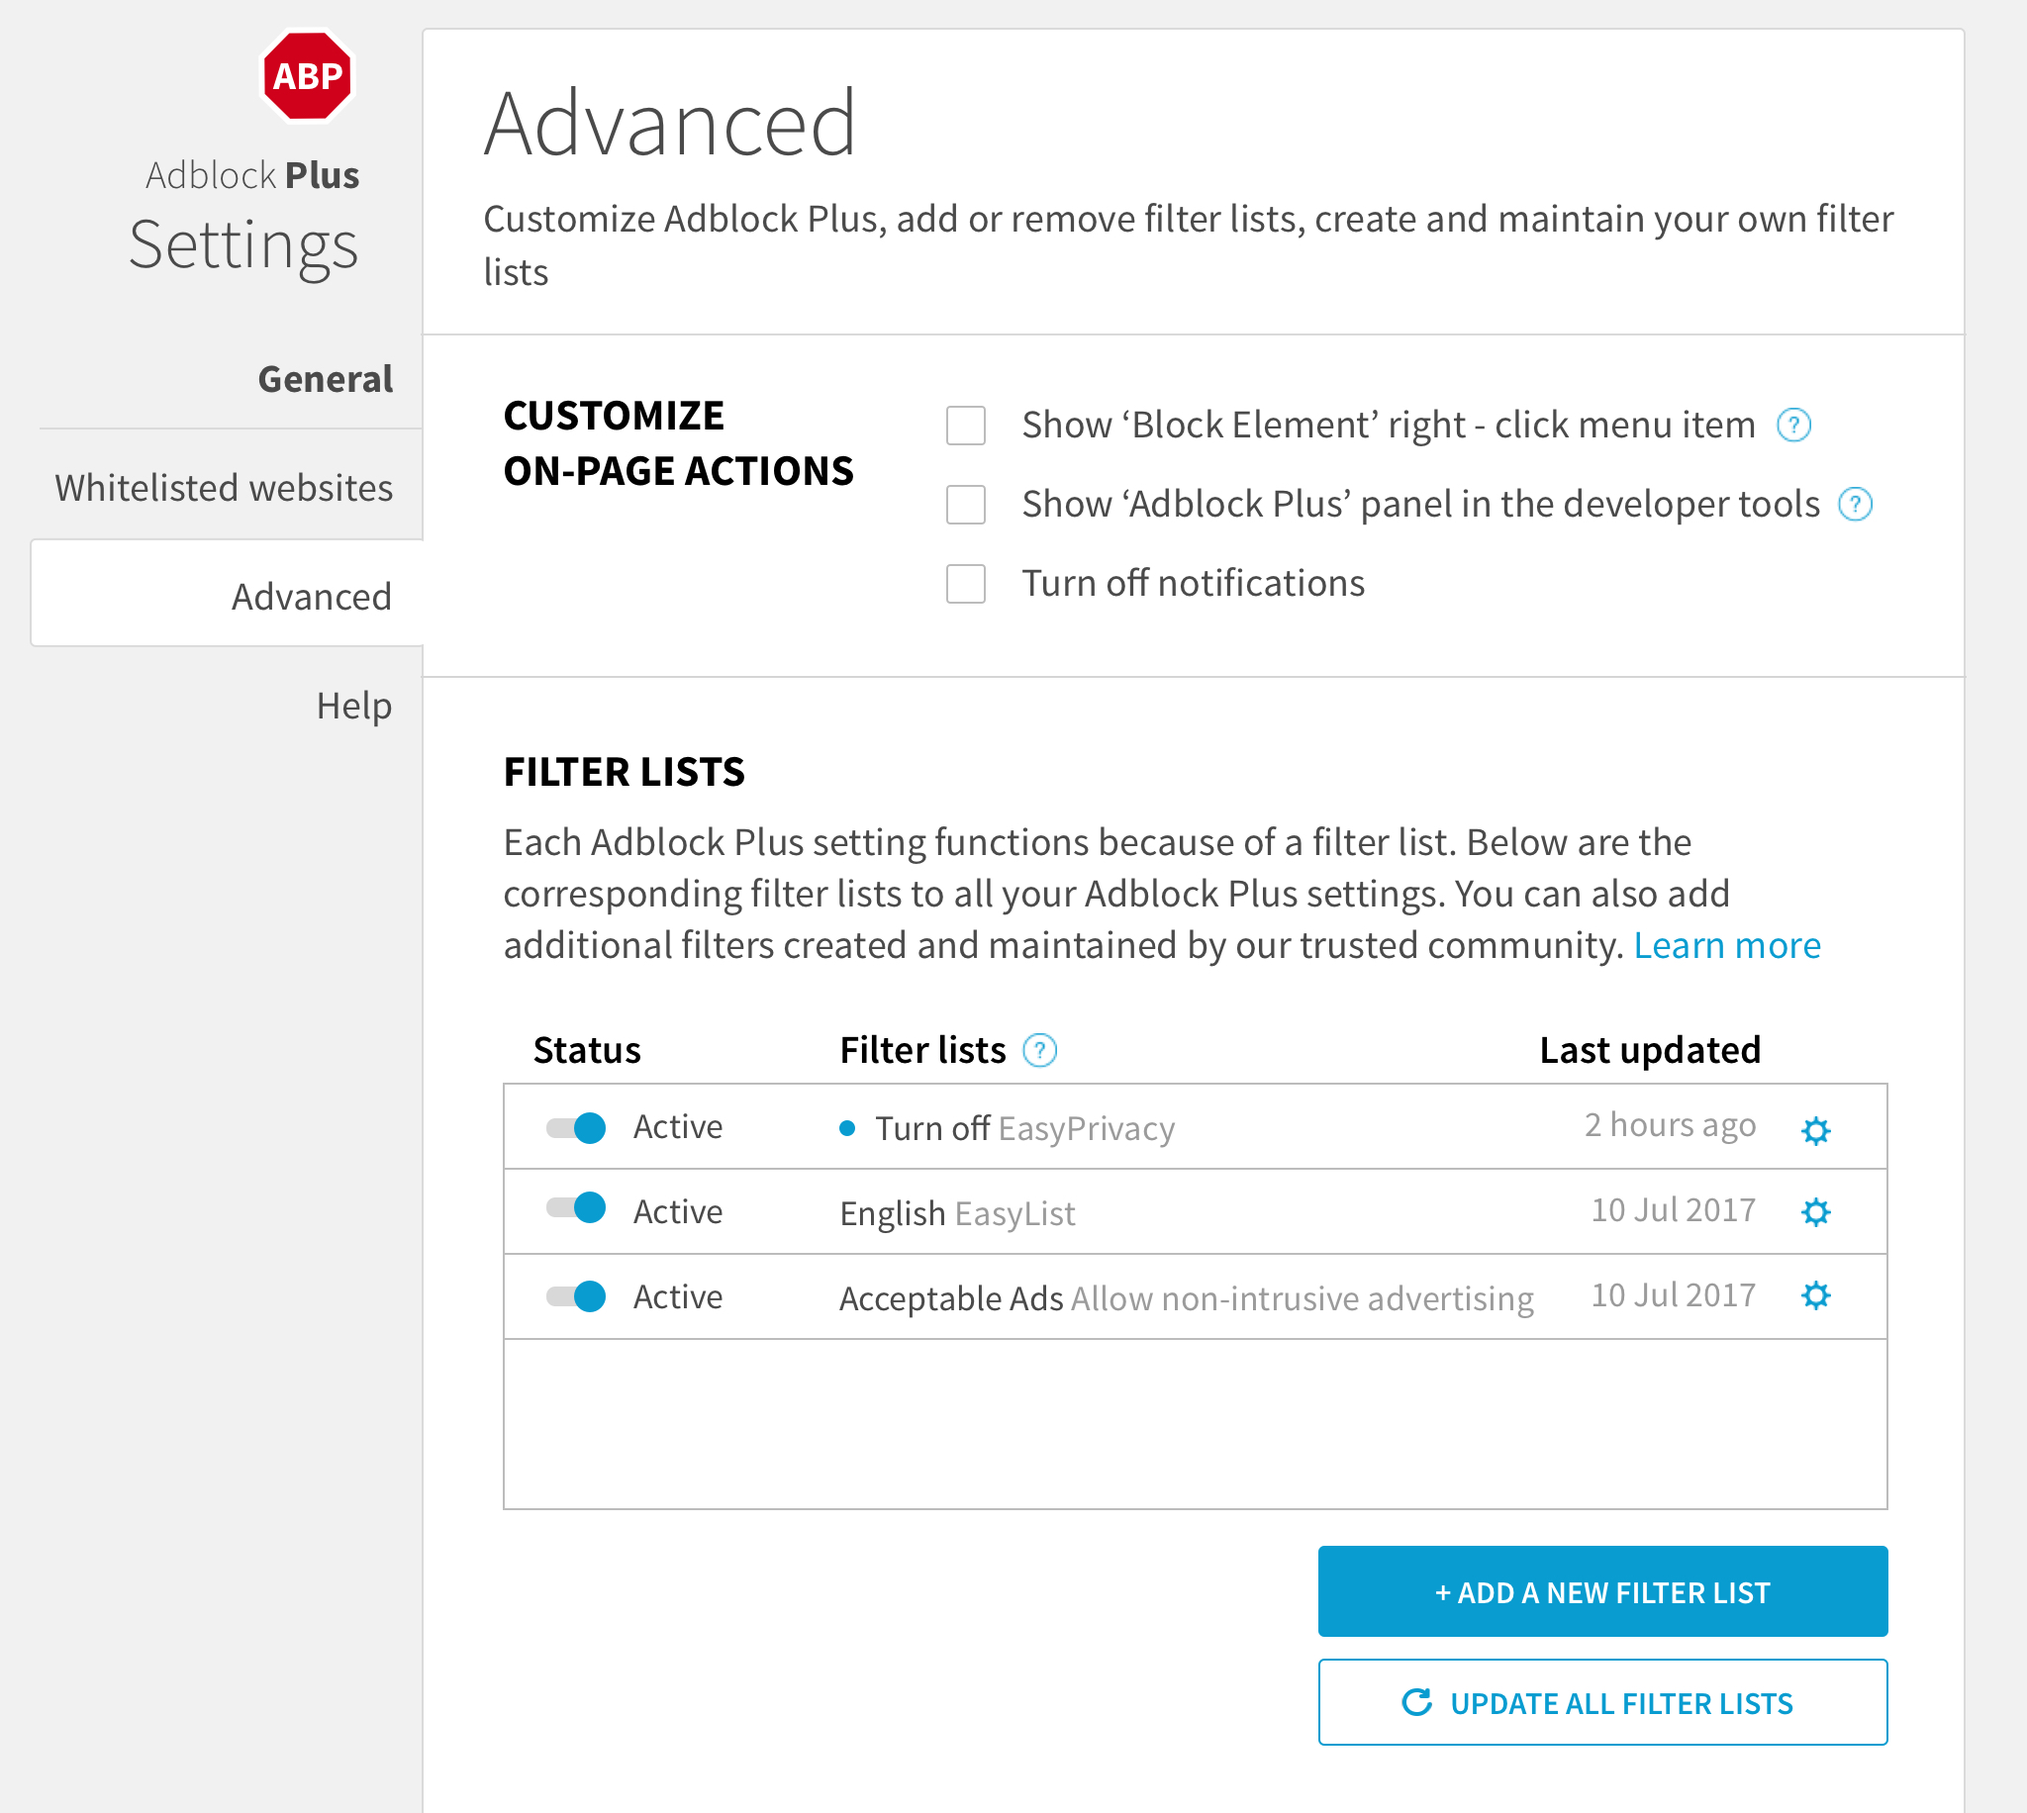
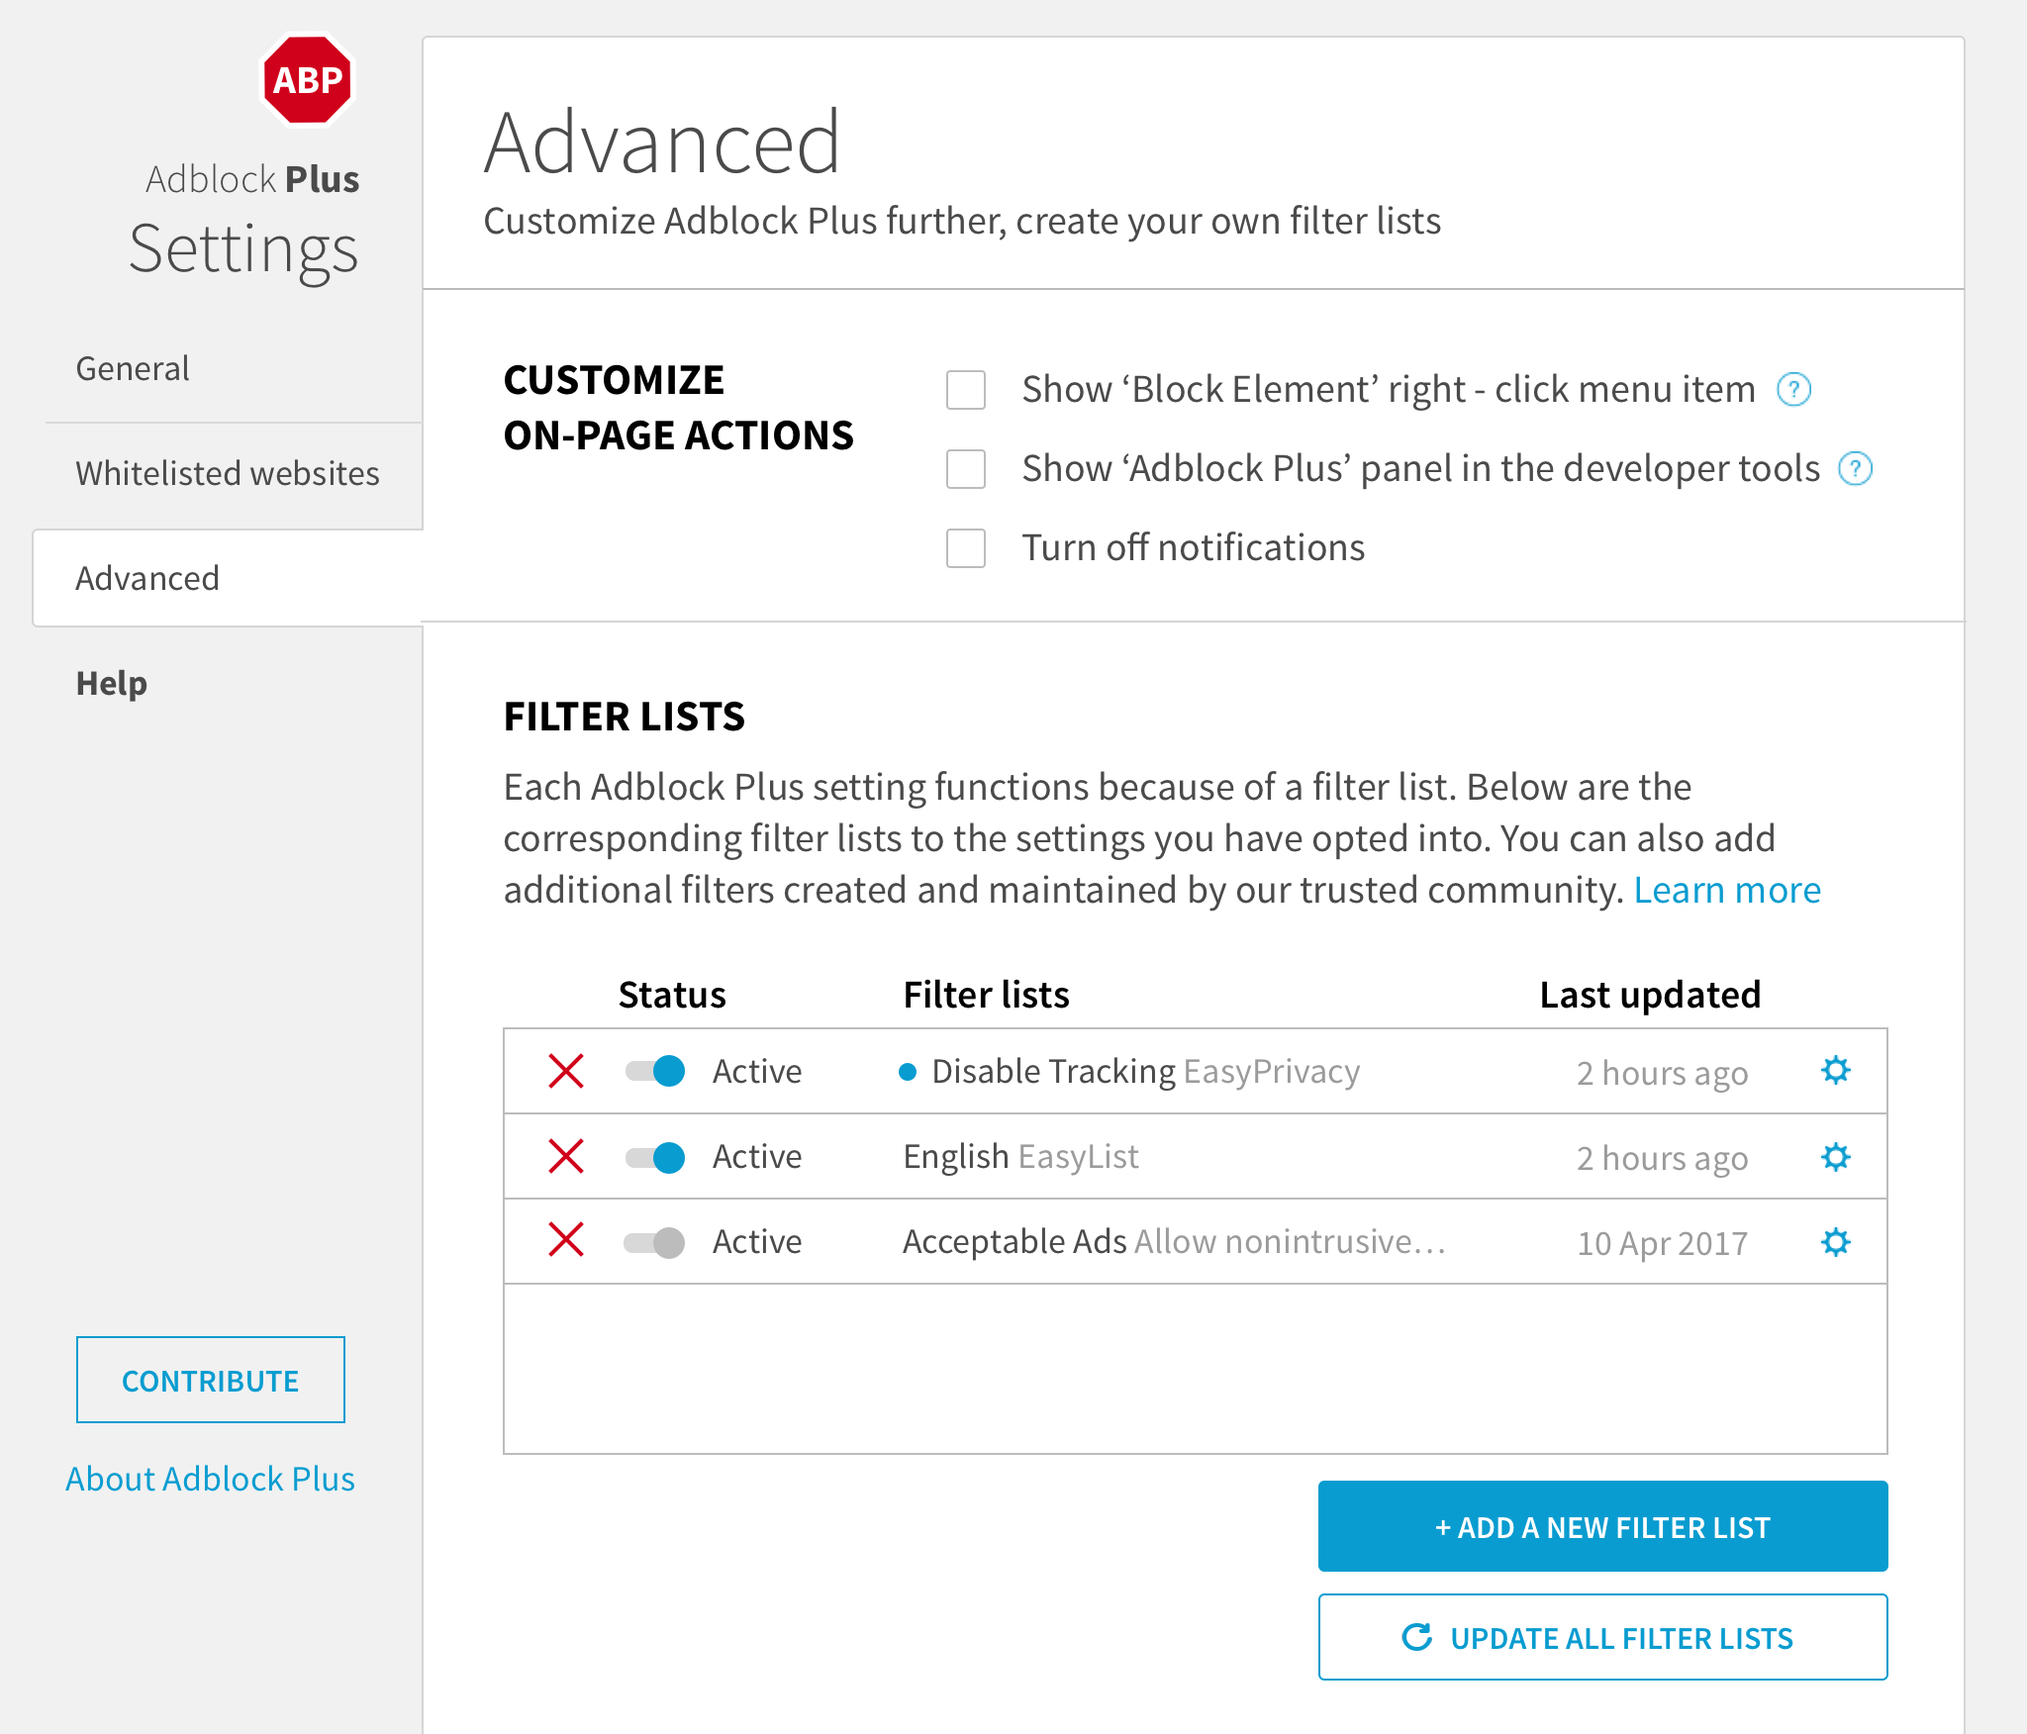
Issue #14 #15 #16 #17 - Added *Filter list section description* link, removed tooltip from *Filter lists section* images, specified date format, and added remove functionality.

diff --git a/spec/abp/options-page.md b/spec/abp/options-page.md
@@ -515,7 +515,11 @@ Description for the [Advanced tab](#markdown-header-advanced-tab): `Customize Ad
 
 1. [Filter list section header](#markdown-header-filter-list-section-header)
 1. [Filter list section description](#markdown-header-filter-list-section-description)
+1. [Remove filter list subscriptions](#markdown-header-remove-filter-list-subscriptions)
+1. [Filter list subscriptions status](#markdown-header-filter-list-subscriptions-status)
 1. [List of filter list subscriptions](#markdown-header-list-of-filter-list-subscriptions)
+1. [Filter list subscriptions updates](#markdown-header-filter-list-subscriptions-updates)
+1. [Filter list subscriptions settings](#markdown-header-filter-list-subscriptions-settings)
 1. [Add filter list button](#markdown-header-add-filter-list-button)
 1. [Update filter lists button](#markdown-header-update-filter-lists-button)
 
@@ -527,49 +531,57 @@ Description for the [Advanced tab](#markdown-header-advanced-tab): `Customize Ad
 
 #### Filter list section description
 
-```
-Each Adblock Plus setting functions because of a filter list. Below are the corresponding filter lists to all your Adblock Plus settings. You can also add additional filters created and maintained by our trusted community. Learn more. [Learn more](#markdown-header-TBA)
-```
+`Each Adblock Plus setting functions because of a filter list. Below are the corresponding filter lists to all your Adblock Plus
+settings. You can also add additional filters created and maintained by our trusted community. [Learn more][1].`
+[1]: [Documentation link](/spec/abp/prefs.md#markdown-header-documentation-link) *subscriptions*
+
+#### Remove filter list subscriptions
+
+- X deletes the filter list.
+
+
+#### Filter list subscriptions status
+
+- Column title: `Status`
+- *Radio slider*  indicates whether or not the filter list subscription is active.
+- `Active`/`Disabled` depending on whether or not the filter list subscription is active.
+- Exception: Acceptable Ads filter list cannot be disabled, it can only be removed and added. 
 
 #### List of filter list subscriptions
 
-Filter list subsritions are displayed in a grid format. Keyboard interations should follow guidelines as specified by [w3 data: Grids for presenting tabular information](https://www.w3.org/TR/2016/WD-wai-aria-practices-1.1-20161214/#dataGrid)
+- Filter list subsritions are displayed in a grid format. Keyboard interations should follow guidelines as specified by [w3 data: Grids for presenting tabular information](https://www.w3.org/TR/2016/WD-wai-aria-practices-1.1-20161214/#dataGrid)
+- Filter List column title: `Filter lists`
+- Displays name of the filter list
+- Update column title: `Last updated`
 
-Status column title: `Status`
+#### Filter list subscriptions updates
 
-Filter List column title: `Filter lists`
-
-Update column title: `Last updated`
-
-List all filter list subscriptions. For each subscription show the following:
-
- - A *radio slider* that indicates whether or not the filter list subscription is active.
- - `Active`/`Disabled` depending on whether or not the filter list subscription is active.
- - Name of the filter list
- - Date/Time of last update
+ - Date/Time of last filter list update
    - Show `Just now` if less then 5 minutes ago
    - Show `{} minutes ago` if more than 5 minutes ago
    - Show `{} hours ago` if the last update was within the last 24 hours
+   - Show `DD MMM YYYY` (eg. 10 Jul 2017) if the update was more than 24 hours ago
    - Show `Updating` while the list is getting updated
    - Show `Download fail` when there is a problem downloading the filter list
+
+#### Filter list subscriptions settings
+
  - A Gear Icon that opens the [Edit filter list popup](#markdown-header-edit-filter-list-popup)
 
 #### Add filter list button
 
-Opens [Add filter list popup](#markdown-header-add-filter-list-popup).
-
-`+ Add a new filter list`
+- Opens [Add filter list popup](#markdown-header-add-filter-list-popup).
+- `+ Add a new filter list`
 
 
 #### Update filter lists button
 
-Updates all filters lists.
-
-`Update all filter lists`
+- Updates all filters lists.
+- `Update all filter lists`
 
 ##### Add filter subscription popup
 
-Allows to add a subscription.
+- Allows to add a subscription.
 
 #### Create custom filter section
 
